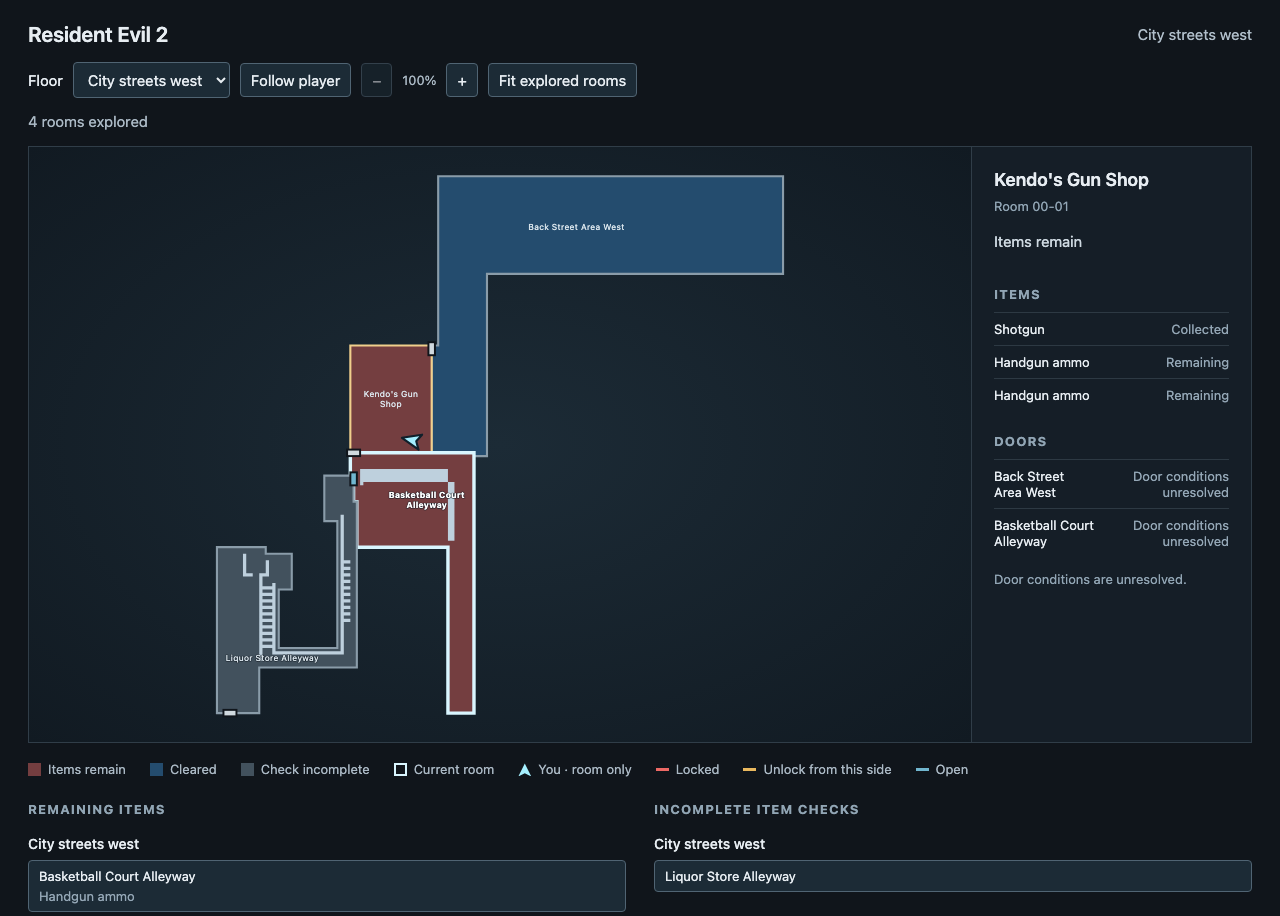
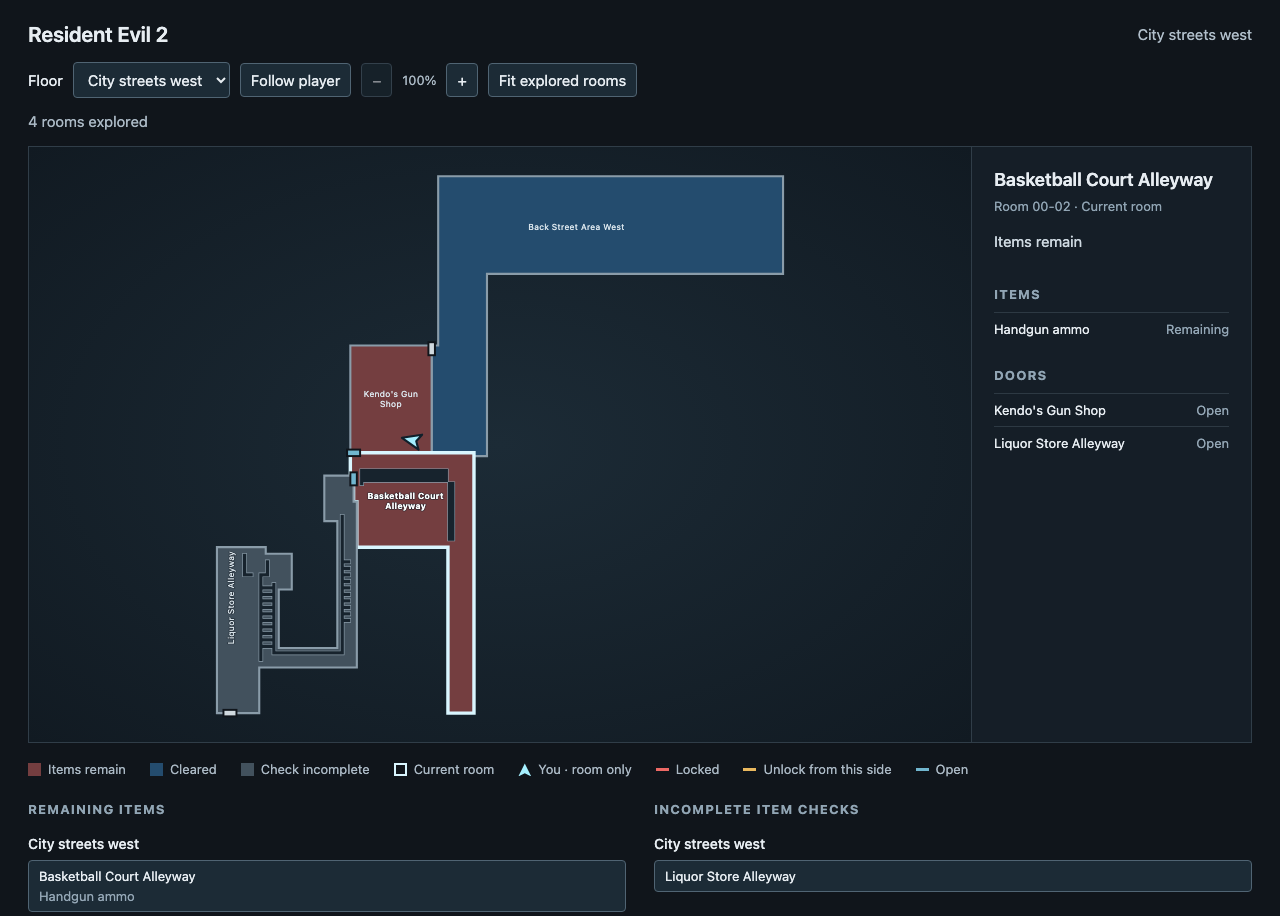
fix(ui): clarify re2 interior markings and labels
Author: gpt-6.1-sol

diff --git a/src/ui/map_view.py b/src/ui/map_view.py
@@ -206,6 +206,8 @@ cannot merge them with a decided state. */
 .room text { fill:#dce7ee; font:2.6px system-ui,sans-serif; pointer-events:none; text-anchor:middle; }
 .room.current text { font-weight:700; fill:#fff; }
 .room path.map-detail { fill:none; stroke:#bed0dd; stroke-width:1; stroke-linecap:square; pointer-events:none; }
+.room path.map-detail-border { stroke:#8a9ca9; stroke-width:1.4; }
+.room path.map-detail-core { stroke:#17232d; }
 .room .map-detail+text { paint-order:stroke; stroke:#151e27; stroke-width:.5; stroke-linejoin:round; }
 .player { pointer-events:none; }
 .player path { fill:#a5efff; stroke:#10202b; stroke-width:.6; stroke-linejoin:round; }
@@ -534,7 +536,12 @@ function draw(state) {
     group.append(element('path',{d:path,'fill-rule':'evenodd'}));
     const title=element('title',{});title.textContent=room.name;group.append(title);
     const detail=room.detail_segments.map(([a,b])=>'M'+a.join(',')+'L'+b.join(',')).join('');
-    if(detail) group.append(element('path',{class:'map-detail',d:detail}));
+    if(detail) {
+      // Paint all borders before all cores so adjacent native strokes form
+      // one outlined structure without pale seams between its source cells.
+      if(isRe2) group.append(element('path',{class:'map-detail map-detail-border',d:detail}));
+      group.append(element('path',{class:'map-detail'+(isRe2 ? ' map-detail-core' : ''),d:detail}));
+    }
     const label=element('text',{});group.append(label);svg.append(group);
     function setLines(lines) {
       label.replaceChildren();
@@ -554,12 +561,14 @@ function draw(state) {
         variants.push({lines,bounds:label.getBBox()});
       }
       const outline=group.querySelector('path');
-      const points=room.rings.flat();
+      const interior=[...group.querySelectorAll('.map-detail-core')];
+      const points=room.rings.flat().concat(isRe2 ? room.detail_segments.flat() : []);
       const xs=[...new Set(points.map(point=>point[0]))].sort((a,b)=>a-b);
       const ys=[...new Set(points.map(point=>point[1]))].sort((a,b)=>a-b);
       const centers=[];
       // The original anchor fits a short ID, but may sit beside a door notch.
-      // Rectangle centers offer nearby positions inside the same room.
+      // Interior endpoints also expose space beside partitions when the
+      // outer corners alone offer no unobstructed label position.
       for(let x=1;x<xs.length;x++) {
         for(let y=1;y<ys.length;y++) {
           const center=[(xs[x-1]+xs[x])/2,(ys[y-1]+ys[y])/2];
@@ -585,7 +594,8 @@ function draw(state) {
               // also catches corridor bends and interior gaps between corners.
               for(let x=0;x<=columns && fits;x++) {
                 for(let y=0;y<=rows;y++) {
-                  if(!outline.isPointInFill(new DOMPoint(center[0]-width/2+x*width/columns,center[1]-height/2+y*height/rows))) {fits=false;break;}
+                  const point=new DOMPoint(center[0]-width/2+x*width/columns,center[1]-height/2+y*height/rows);
+                  if(!outline.isPointInFill(point) || interior.some(path=>path.isPointInStroke(point))) {fits=false;break;}
                 }
               }
               if(fits) {layout={lines,angle,scale,center,offset:[-bounds.x-bounds.width/2,-bounds.y-bounds.height/2]};break fitting;}

diff --git a/docs/research/re2.md b/docs/research/re2.md
@@ -102,6 +102,26 @@ Contributions:
 - 2026-10-27; human user; supplied the screenshot and identified the missing internal partition as the requested correction.
 - 2026-10-27; `gpt-6.1-sol`, verified from this session's matching `session_meta` and latest `turn_context`; inspected both owned map sources, implemented and directly reviewed the shared rule, regenerated the two current catalogs, ran the focused and browser checks, inspected the tracker render and authored this entry. Review checked correctness, source fidelity, perimeter/rail preservation, revision isolation, determinism, offline generation cost, test scope, rendered UI/UX/AX impact and unchanged runtime contracts. Configured Claude and Antigravity review providers are disabled in T3, so neither external review completed; there is no substituted model or external endorsement.
 
+### Interior presentation follow-up, 2026-10-27
+
+The human supplied a further alleyway crop showing a heavy pale partition and a room name crossing the vertical interior marking. The existing source strokes touch, so their single light-colored pass fills the entire partition footprint. This presentation follow-up retains those coordinates and the source geometry above.
+
+RE2 now paints the complete interior path twice: a muted outline at width `1.4`, followed by the original one-unit footprint in dark color. Painting all outlines before all cores avoids seams between neighboring source strokes. Labels test the interior stroke footprint as well as the enclosing room and use interior endpoints when choosing candidate positions. This keeps the alleyway name in open space at its original font size. RE1's existing detail styling and label placement are retained.
+
+Private evidence is under `/tmp/re-map-re2-interior-style-20261027/`. `before-render.json` and `after-render.json` use the same read-only snapshot of already explored rooms. `render.mjs`, the alleyway crops and `browser-result.json` reproduce the comparison. The glyph-box sampling check detects overlap before the change and none afterward; direct visual inspection checks the darker outlined partition and the unobstructed room name. The README screenshot is refreshed. These are tracker presentation checks, not native geometry or gameplay confirmation.
+
+The browser regression checks every one of the DualShock Leon layout's 132 room outlines as current, including bold labels, interior border/core geometry and glyph clearance from both outer and interior walls. The original-release Leon browser sweep covers 133 outlines and controls; the RE1 suite separately guards its 118 outlines and existing detail styling. The focused map/metadata/door-layout suite passes 486 tests. Lint and formatting pass. No source catalogs, room contours, item/door interpretation or game state change in this increment.
+
+`live-restart.json` verifies that the user's existing tracker serves the updated styling and label checks after a graceful restart. Its playthrough identity and accumulated visits are preserved. A page refresh loads the updated renderer.
+
+Root review checks the two-pass stroke order, unchanged native footprint, label clearance, candidate completeness, cached layout cost, revision isolation and the rendered result. Configured external review providers remain disabled as recorded above; no external endorsement or new gameplay validation is claimed. After the review limitation was reported, the human said the result was better and directed committing the fix on 2026-10-27.
+
+Contributions:
+
+- 2026-10-27; human user; supplied the alleyway crop and requested a clearer interior marking.
+- 2026-10-27; human user; accepted the improved appearance and authorized committing after the external-review limitation was reported.
+- 2026-10-27; Codex root, exact model `gpt-6.1-sol`; implemented and directly reviewed the presentation change, checked the before/after tracker render, extended browser regressions and authored this follow-up. Model identity is verified from T3's current-thread model selection.
+
 ## RE2-MAP-004: one marker for a shared doorway
 
 Status: Candidate for physical pairing and absolute wall placement in the four supported RE2 USA profiles. Source catalogs, geometric regressions and tracker rendering establish the two-marker result for the reported shop. No native door traversal or new gameplay coverage is claimed.

diff --git a/docs/re2.md b/docs/re2.md
@@ -20,6 +20,8 @@ Match the existing tracker behavior: spatial floor plans revealed by entering ro
 
 Uniquely matched doorways appear once on the shared wall. Selecting a room shows that side's access and key state. [RE2-MAP-004](research/re2.md#re2-map-004-one-marker-for-a-shared-doorway) records the shop correction and pairing limits.
 
+Interior structures use dark cores with thin outlines, and room names avoid those structures. [RE2-MAP-003](research/re2.md#interior-presentation-follow-up-2026-10-27) records the alleyway presentation check.
+
 ## Original-release profiles and validation
 
 RE2 follows the shared [collection-based completion policy](room-completion.md). An available collectible or source-established uncollected item keeps its explored room incomplete, including before activation and after departure. Clearance requires a resolved full list with nothing remaining. An inactive pointer or catalog candidate alone does not establish an item; unsupported conditions and conflicting identities remain unknown. The bounded source proof covers audited startup paths. [RE2-COLLECT-001](research/re2.md#re2-collect-001-source-established-items-remain-until-collected) records the initial implementation and its limits. [RE2-COLLECT-002](research/re2.md#re2-collect-002-conflicting-slots-preserve-unrelated-item-proofs) preserves proofs for unrelated items when another slot has conflicting definitions. [RE2-COLLECT-003](research/re2.md#re2-collect-003-scripted-activation-preserves-collection-identity) extends the proof through audited actor setup, automatic task scheduling and matching interaction resets. The original seventeen relevant collectible proofs remain unchanged. [RE2-COLLECT-006](research/re2.md#re2-collect-006-stable-conditions-preserve-departed-pickups) adds shared startup-condition proofs for ordinary pickups, using an explicit revision-specific set of stable flags. Volatile or unsupported conditions remain unresolved. Source-proof counts describe offline interpretation, not gameplay coverage.

diff --git a/README.md b/README.md
@@ -65,4 +65,4 @@ python3 tools/track.py --profile profiles/re2_claire_b_slus00756.json --map
 
 Each revision and scenario has a separate exploration history. Keep RetroAchievements in Casual/Softcore mode when using the tracker and savestates. The [RE2 guide](docs/re2.md) lists the exact disc identities and validation limits.
 
-![RE2 explored rooms with shared doorway markers](docs/images/re2-map.png)
+![RE2 explored rooms with interior walls and shared doorways](docs/images/re2-map.png)
